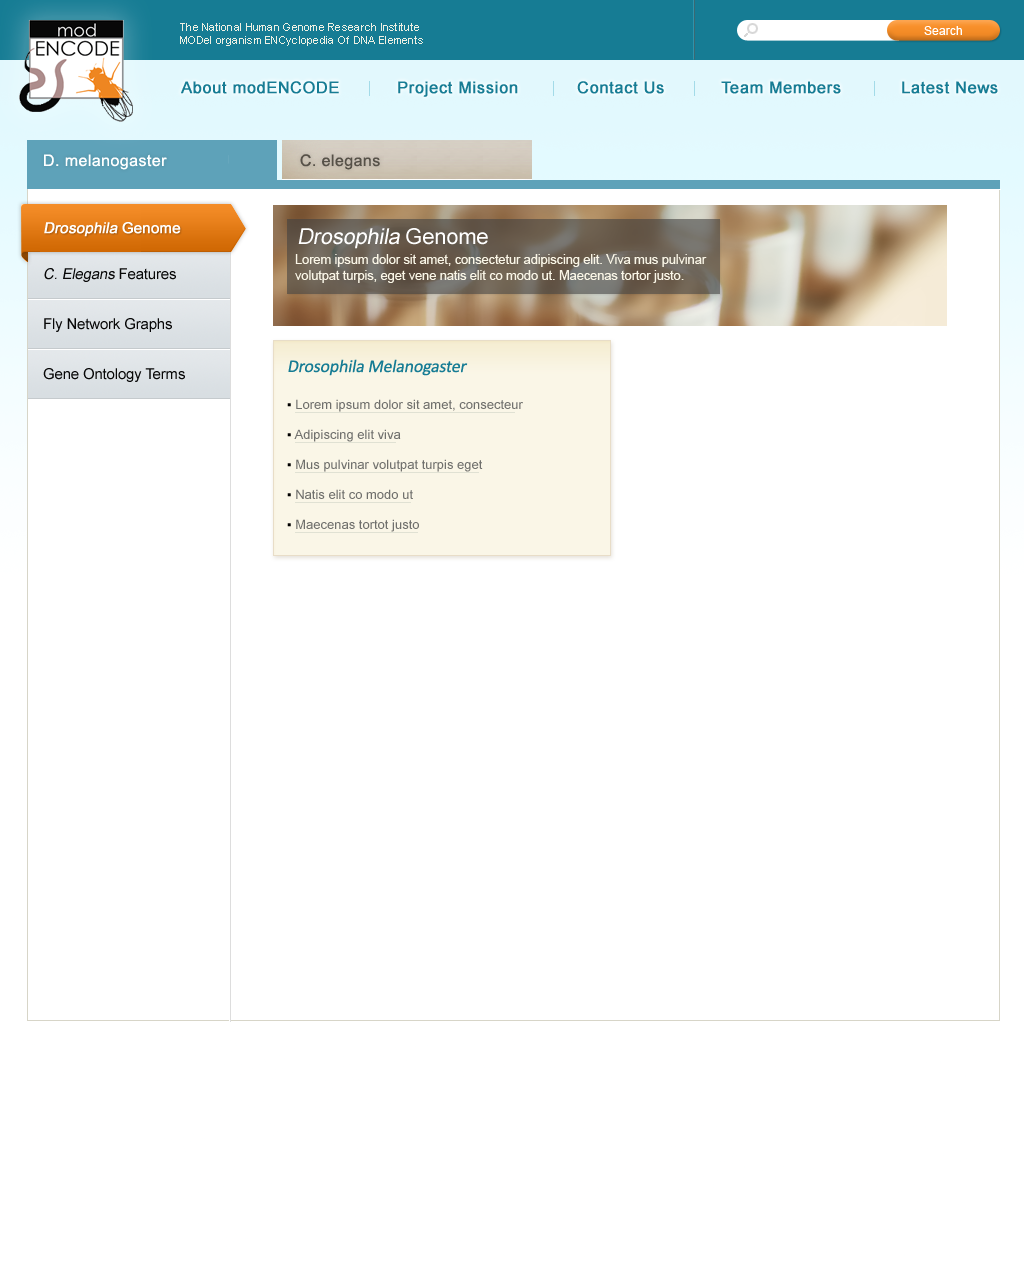
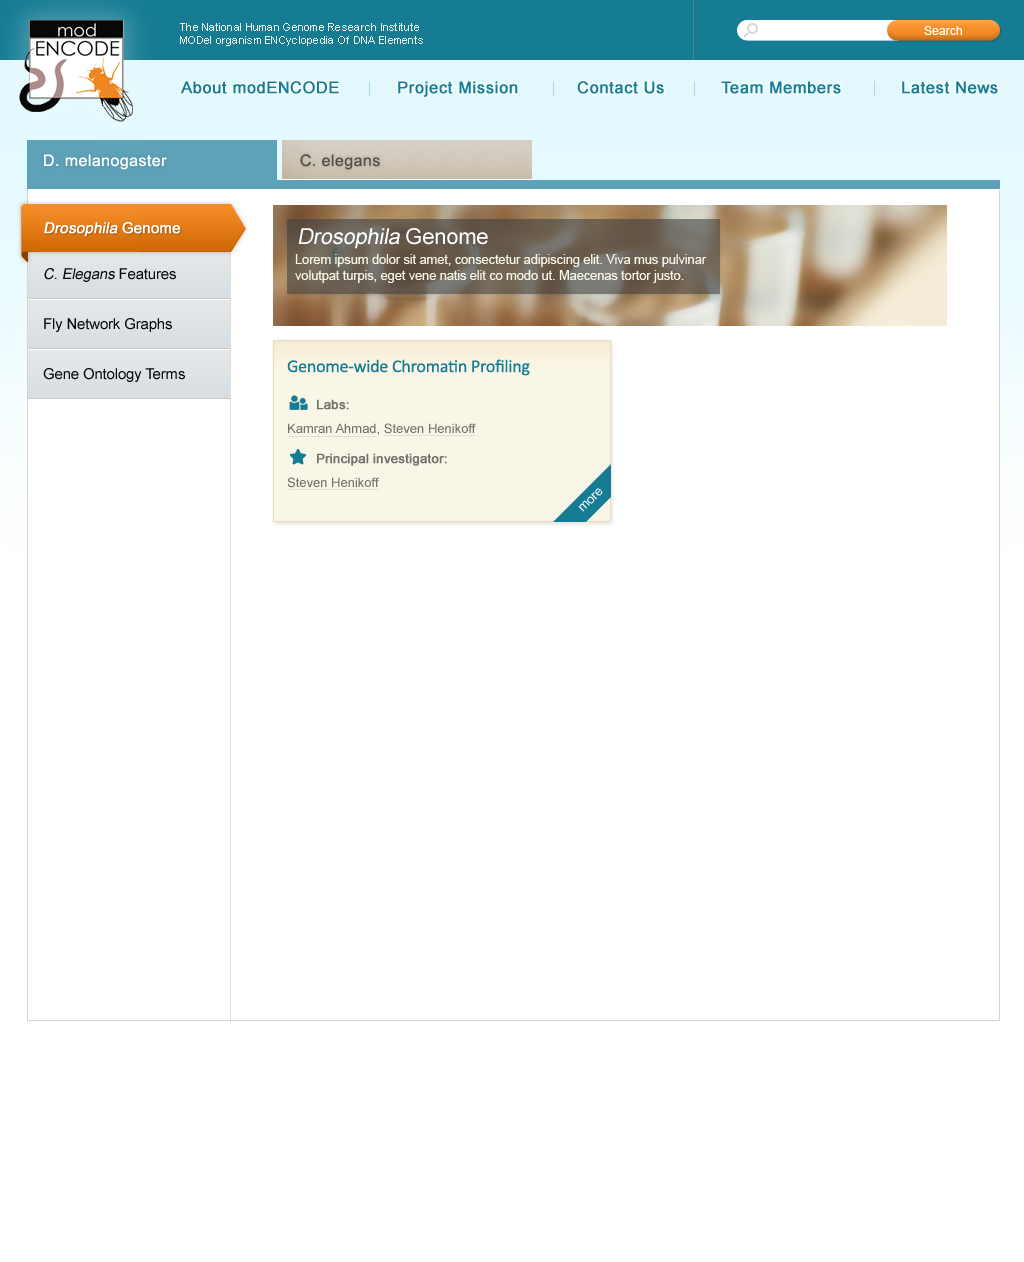
experiment yellow box images

Changed region(s): [[0.2812, 0.2781, 0.5312, 0.4326], [0.5312, 0.3708, 0.5938, 0.4326]]

diff --git a/flask/models/fakedata.py b/flask/models/fakedata.py
@@ -3,329 +3,63 @@
 
 # TODO: remove this when done
 
-data = { "organisms" : [ { "categories" : [ { "category_title" : "Chromatin structure",
-              "experiments" : [ { "experiment_title" : "Genome-wide Chromatin Profiling",
-                    "labs" : [ "Kamran Ahmad",
-                        "Steven Henikoff"
-                      ],
-                    "pi" : "Steven Henikoff"
-                  } ]
+data = {
+    "organisms":
+        [
+            {
+                "experiments":
+                    [
+                        { "category_title":"Chromatin structure",
+                          "experiment":
+                            [
+                                { "experiment_title":"Genome-wide Chromatin Profiling",
+                                  "labs": ["Kamran Ahmad", "Steven Henikoff"],
+                                  "pi":"Steven Henikoff"}
+                            ]
+                        },
+                        { "category_title":"Copy Number Variation",
+                          "experiment":
+                            [
+                                { "experiment_title":"CGH drosophila cell lines",
+                                  "labs": ["David MacAlpine"],
+                                  "pi" : "David MacAlpine"
+                                },
+                                { "experiment_title":"CNV in Drosophila cell lines",
+                                  "labs": ["David MacAlpine"],
+                                  "pi": "David MacAlpine"
+                                }
+                            ]
+                        }
+                    ],
+                "org_name":"D. melanogaster"
             },
-            { "category_title" : "Copy Number Variation",
-              "experiments" : [ { "experiment_title" : "CGH drosophila cell lines",
-                    "labs" : [ "David MacAlpine" ],
-                    "pi" : "David MacAlpine"
-                  },
-                  { "experiment_title" : "CNV in Drosophila cell lines",
-                    "labs" : [ "David MacAlpine" ],
-                    "pi" : "David MacAlpine"
-                  },
-                  { "experiment_title" : "Differential Replication of Polytene Chromosomes",
-                    "labs" : [ "Terry Orr-Weaver" ],
-                    "pi" : "David MacAlpine"
-                  }
-                ]
-            },
-            { "category_title" : "Gene Structure",
-              "experiments" : [ { "experiment_title" : "RT-PCR",
-                    "labs" : [ "Michael Brent" ],
-                    "pi" : "Sue Celniker"
-                  },
-                  { "experiment_title" : "Analysis of TSS using stranded RACE products",
-                    "labs" : [ "Sue Celniker" ],
-                    "pi" : "Sue Celniker"
-                  },
-                  { "experiment_title" : "5' RACE",
-                    "labs" : [ "Sue Celniker" ],
-                    "pi" : "Sue Celniker"
-                  },
-                  { "experiment_title" : "Confirmation of Drosophila transcripts by full-length cDNA screening",
-                    "labs" : [ "Sue Celniker" ],
-                    "pi" : "Sue Celniker"
-                  },
-                  { "experiment_title" : "Annotation of Drosophila splice junctions by RNA-seq",
-                    "labs" : [ "Brenton Graveley" ],
-                    "pi" : "Sue Celniker"
-                  },
-                  { "experiment_title" : "Cap Analysis of Gene Expression",
-                    "labs" : [ "Sue Celniker" ],
-                    "pi" : "Sue Celniker"
-                  },
-                  { "experiment_title" : "Drosophila Cell Line and Developmental Stage Gene and Exon Scores",
-                    "labs" : [ "Peter Cherbas" ],
-                    "pi" : "Sue Celniker"
-                  },
-                  { "experiment_title" : "Gene Model Prediction",
-                    "labs" : [ "Michael Brent" ],
-                    "pi" : "Sue Celniker"
-                  }
-                ]
-            },
-            { "category_title" : "Histone modification and replacement",
-              "experiments" : [ { "experiment_title" : "HMM Prediction of D. melanogaster Chromatin States",
-                    "labs" : [ "Gary Karpen" ],
-                    "pi" : "Gary Karpen"
-                  },
-                  { "experiment_title" : "Genomic Distributions of Histone Modifications",
-                    "labs" : [ "Gary Karpen",
-                        "Mitzi Kuroda",
-                        "Sarah Elgin",
-                        "Vincent Pirrotta"
-                      ],
-                    "pi" : "Gary Karpen"
-                  },
-                  { "experiment_title" : "Chromatin Binding Site Mapping of Modified Histone Proteins in D. melanogaster",
-                    "labs" : [ "Kevin White" ],
-                    "pi" : "Kevin White"
-                  }
-                ]
-            },
-            { "category_title" : "Metadata only",
-              "experiments" : [ { "experiment_title" : "RNA made in Bloomington",
-                    "labs" : [ "Peter Cherbas",
-                        "Tom Gingeras"
-                      ],
-                    "pi" : "Sue Celniker"
-                  } ]
-            },
-            { "category_title" : "Other chromatin binding sites",
-              "experiments" : [ { "experiment_title" : "Genomic Distributions of non-Histone Chromosomal Proteins in D. melanogaster",
-                    "labs" : [ "Gary Karpen",
-                        "Mitzi Kuroda",
-                        "Sarah Elgin",
-                        "Vincent Pirrotta"
-                      ],
-                    "pi" : "Gary Karpen"
-                  },
-                  { "experiment_title" : "Chromatin Binding Site Mapping of non-Histone Chromosomal Proteins in D. melanogaster",
-                    "labs" : [ "Kevin White" ],
-                    "pi" : "Kevin White"
-                  },
-                  { "experiment_title" : "Classification of D. melanogaster Insulator Binding Sequences",
-                    "labs" : [ "Kevin White" ],
-                    "pi" : "Kevin White"
-                  }
-                ]
-            },
-            { "category_title" : "RNA expression profiling",
-              "experiments" : [ { "experiment_title" : "Transcriptional Profiling of additional Drosophila species with RNA-Seq",
-                    "labs" : [ "Brian Oliver" ],
-                    "pi" : "Brian Oliver"
-                  },
-                  { "experiment_title" : "Transcriptional profiling of Drosophila cell lines",
-                    "labs" : [ "Kamran Ahmad" ],
-                    "pi" : "Steven Henikoff"
-                  },
-                  { "experiment_title" : "RNA-seq support of the ChIP data",
-                    "labs" : [ "Kevin White" ],
-                    "pi" : "Kevin White"
-                  },
-                  { "experiment_title" : "Small RNA identification",
-                    "labs" : [ "Eric Lai",
-                        "Gregory Hannon"
-                      ],
-                    "pi" : "Eric Lai"
-                  },
-                  { "experiment_title" : "Short read sequencing of fly mRNA",
-                    "labs" : [ "Michael Brent" ],
-                    "pi" : "Sue Celniker"
-                  },
-                  { "experiment_title" : "Transcriptional Profiling of D. melanogaster cell lines using Illumina poly(A)%2B RNA-Seq",
-                    "labs" : [ "Brenton Graveley" ],
-                    "pi" : "Sue Celniker"
-                  },
-                  { "experiment_title" : "Paired End RNA-Seq of Drosophila Cell Lines",
-                    "labs" : [ "Brenton Graveley" ],
-                    "pi" : "Sue Celniker"
-                  },
-                  { "experiment_title" : "Developmental Time Course Transcriptional Profiling of D. melanogaster Embryo Using SOLiD Stranded Total RNA-Seq",
-                    "labs" : [ "Sue Celniker" ],
-                    "pi" : "Sue Celniker"
-                  },
-                  { "experiment_title" : "Tissue-specific Transcriptional Profiling of D. melanogaster using Illumina poly(A)%2B RNA-Seq",
-                    "labs" : [ "Brenton Graveley" ],
-                    "pi" : "Sue Celniker"
-                  },
-                  { "experiment_title" : "Identification of transcribed sequences with expression profile maps",
-                    "labs" : [ "Tom Gingeras" ],
-                    "pi" : "Sue Celniker"
-                  },
-                  { "experiment_title" : "Stranded Cell Line Transcriptional Profiling Using Illumina poly%28A%29%2B RNA-seq",
-                    "labs" : [ "Sue Celniker" ],
-                    "pi" : "Sue Celniker"
-                  },
-                  { "experiment_title" : "Capped and uncapped short RNAs",
-                    "labs" : [ "Tom Gingeras" ],
-                    "pi" : "Sue Celniker"
-                  },
-                  { "experiment_title" : "C-tailed RNA-Seq of Drosophila Cell lines and stages",
-                    "labs" : [ "Tom Gingeras" ],
-                    "pi" : "Sue Celniker"
-                  },
-                  { "experiment_title" : "Developmental Stage Timecourse Transcriptional Profiling with RNA-Seq",
-                    "labs" : [ "Brenton Graveley",
-                        "Sue Celniker"
-                      ],
-                    "pi" : "Sue Celniker"
-                  },
-                  { "experiment_title" : "RNAi of RNA splicing factors in D. melanogaster",
-                    "labs" : [ "Brenton Graveley" ],
-                    "pi" : "Sue Celniker"
-                  }
-                ]
-            },
-            { "category_title" : "Replication",
-              "experiments" : [ { "experiment_title" : "Replication Timing Characterization",
-                    "labs" : [ "David MacAlpine" ],
-                    "pi" : "David MacAlpine"
-                  },
-                  { "experiment_title" : "MacAlpine Early Origin of Replication Identification",
-                    "labs" : [ "David MacAlpine" ],
-                    "pi" : "David MacAlpine"
-                  },
-                  { "experiment_title" : "Genome-wide localization of essential replication initiators",
-                    "labs" : [ "David MacAlpine",
-                        "Terry Orr-Weaver"
-                      ],
-                    "pi" : "David MacAlpine"
-                  },
-                  { "experiment_title" : "Genome-wide localization of essential replication initiators by ChIP-chip",
-                    "labs" : [ "David MacAlpine",
-                        "Terry Orr-Weaver"
-                      ],
-                    "pi" : "David MacAlpine"
-                  }
-                ]
-            },
-            { "category_title" : "TF binding sites",
-              "experiments" : [ { "experiment_title" : "Chromatin Binding Site Mapping",
-                    "labs" : [ "Kevin White" ],
-                    "pi" : "Kevin White"
-                  },
-                  { "experiment_title" : "Chromatin Binding Site Mapping of Transcription Factors in D. melanogaster by ChIP-seq",
-                    "labs" : [ "Kevin White" ],
-                    "pi" : "Kevin White"
-                  }
-                ]
+            {
+                "experiments":
+                    [
+                        { "category_title":"Chromatin structure",
+                          "experiment":
+                            [
+                                { "experiment_title":"Nucleosome mapping",
+                                  "labs": ["Jason Lieb"],
+                                  "pi": "Jason Lieb"
+                                }
+                            ]
+                        },
+                        { "category_title":"Gene Structure",
+                          "experiment":
+                            [
+                                { "experiment_title":"Encyclopedia of C. elegans 3'UTRs and their regulatory elements",
+                                  "labs": ["Fabio Piano", "John Kim"],
+                                  "pi" : "Fabio Piano"
+                                },
+                                { "experiment_title":"SL Acceptor Site Confirmation in C. elegans",
+                                  "labs": ["Phil Green"],
+                                  "pi": "Robert Waterston"
+                                }
+                            ]
+                        }
+                    ],
+                "org_name":"C. elegans"
             }
-          ],
-        "org_name" : "D. melanogaster"
-      },
-      { "categories" : [ { "category_title" : "Chromatin structure",
-              "experiments" : [ { "experiment_title" : "Nucleosome mapping",
-                    "labs" : [ "Jason Lieb" ],
-                    "pi" : "Jason Lieb"
-                  },
-                  { "experiment_title" : "Genome wide chromatin profiling in C. elegans",
-                    "labs" : [ "Steven Henikoff" ],
-                    "pi" : "Steven Henikoff"
-                  }
-                ]
-            },
-            { "category_title" : "Gene Structure",
-              "experiments" : [ { "experiment_title" : "Encyclopedia of C. elegans 3'UTRs and their regulatory elements",
-                    "labs" : [ "Fabio Piano",
-                        "John Kim"
-                      ],
-                    "pi" : "Fabio Piano"
-                  },
-                  { "experiment_title" : "SL Acceptor Site Confirmation in C. elegans",
-                    "labs" : [ "Phil Green" ],
-                    "pi" : "Robert Waterston"
-                  },
-                  { "experiment_title" : "Reanalysis of comprehensive set of C. elegans transcripts and expression for various stages and conditions",
-                    "labs" : [ "Robert Waterston" ],
-                    "pi" : "Robert Waterston"
-                  },
-                  { "experiment_title" : "Intron Confirmation in C. elegans",
-                    "labs" : [ "Phil Green" ],
-                    "pi" : "Robert Waterston"
-                  },
-                  { "experiment_title" : "Mass spectrometric validation of short ORFs",
-                    "labs" : [ "Michael MacCoss" ],
-                    "pi" : "Robert Waterston"
-                  },
-                  { "experiment_title" : "Identification of small RNAs in C. elegans",
-                    "labs" : [ "Frank Slack" ],
-                    "pi" : "Robert Waterston"
-                  },
-                  { "experiment_title" : "Transcription Start Site Confirmation in C. elegans",
-                    "labs" : [ "Phil Green" ],
-                    "pi" : "Robert Waterston"
-                  }
-                ]
-            },
-            { "category_title" : "Histone modification and replacement",
-              "experiments" : [ { "experiment_title" : "Chromatin ChIP-chip of Modified Histones in C. elegans",
-                    "labs" : [ "Jason Lieb",
-                        "Julie Ahringer",
-                        "Susan Strome"
-                      ],
-                    "pi" : "Jason Lieb"
-                  } ]
-            },
-            { "category_title" : "Other chromatin binding sites",
-              "experiments" : [ { "experiment_title" : "Chromatin ChIP-chip",
-                    "labs" : [ "Arshad Desai",
-                        "Jason Lieb",
-                        "Julie Ahringer",
-                        "Susan Strome"
-                      ],
-                    "pi" : "Jason Lieb"
-                  },
-                  { "experiment_title" : "Chromatin ChIP-chip of non-Histone Chromosomal Proteins in C. elegans",
-                    "labs" : [ "Jason Lieb" ],
-                    "pi" : "Jason Lieb"
-                  }
-                ]
-            },
-            { "category_title" : "RNA expression profiling",
-              "experiments" : [ { "experiment_title" : "Assaying RNA Expression in C. elegans",
-                    "labs" : [ "Jason Lieb" ],
-                    "pi" : "Jason Lieb"
-                  },
-                  { "experiment_title" : "Transcriptional profiling of C. elegans N2 embryos",
-                    "labs" : [ "Kamran Ahmad" ],
-                    "pi" : "Steven Henikoff"
-                  },
-                  { "experiment_title" : "Small RNA expression in C. elegans embryos",
-                    "labs" : [ "Nikolaus Rajewsky" ],
-                    "pi" : "Fabio Piano"
-                  },
-                  { "experiment_title" : "Identification of tissue and stage-specific transcribed sequences with expression profile maps",
-                    "labs" : [ "David Miller",
-                        "Valerie Reinke"
-                      ],
-                    "pi" : "Robert Waterston"
-                  },
-                  { "experiment_title" : "Definition of comprehensive set of C. elegans transcripts and expression for various stages and conditions",
-                    "labs" : [ "Robert Waterston" ],
-                    "pi" : "Robert Waterston"
-                  },
-                  { "experiment_title" : "Changes in expression of small RNAs under stress conditions in C. elegans",
-                    "labs" : [ "Frank Slack" ],
-                    "pi" : "Robert Waterston"
-                  },
-                  { "experiment_title" : "Identification of transcribed sequences under pathogenic bacterial growth conditions with expression profile maps",
-                    "labs" : [ "Valerie Reinke" ],
-                    "pi" : "Robert Waterston"
-                  },
-                  { "experiment_title" : "Changes in expression of small RNAs during aging in C. elegans",
-                    "labs" : [ "Frank Slack" ],
-                    "pi" : "Robert Waterston"
-                  }
-                ]
-            },
-            { "category_title" : "TF binding sites",
-              "experiments" : [ { "experiment_title" : "ChIP-Seq Identification of C. elegans TF Binding Sites",
-                    "labs" : [ "Gerstein",
-                        "Michael Snyder"
-                      ],
-                    "pi" : "Michael Snyder"
-                  } ]
-            }
-          ],
-        "org_name" : "C. elegans"
-      }
-    ]
+        ]
 }
